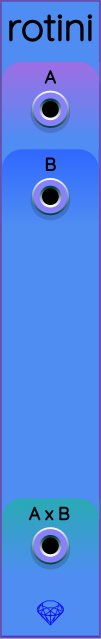
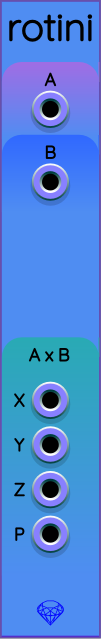
Rotini: add X, Y, Z monophonic outputs.
I realized I should make Rotini's output ports look like Frolic's and Glee's,
both to eliminate the need for external SPLIT/MERGE modules, as well as
to make it easier to recognize how to chain/combine Frolic, Glee, Rotini
into trees.

Updated screen shots, documentation.

diff --git a/util/make_sapphire_svg.py b/util/make_sapphire_svg.py
@@ -675,17 +675,23 @@ def GenerateRotiniPanel() -> int:
     pl.append(defs)
     controls = ControlLayer()
     xmid = panel.mmWidth / 2
-    NROWS = 6
+    NROWS = 7
     yRow = FencePost(22.0, 110.0, NROWS)
     dyGrad = 6.0
-    dyText = 6.5
+    dyText = 6.0
+    dxText = 6.25
+    outputPortDY =  9.0
+    outPortY = yRow.value(NROWS-3)
     with Font(SAPPHIRE_FONT_FILENAME) as font:
         pl.append(BorderRect(PANEL_WIDTH, SAPPHIRE_PANEL_COLOR, SAPPHIRE_BORDER_COLOR))
         pl.append(ModelNamePath(panel, font, name))
         pl.append(CenteredGemstone(panel))
         controls.append(Component('a_input',  xmid, yRow.value(0)))
         controls.append(Component('b_input',  xmid, yRow.value(1)))
-        controls.append(Component('c_output', xmid, yRow.value(NROWS-1)))
+        controls.append(Component('x_output', xmid, outPortY + 0*outputPortDY))
+        controls.append(Component('y_output', xmid, outPortY + 1*outputPortDY))
+        controls.append(Component('z_output', xmid, outPortY + 2*outputPortDY))
+        controls.append(Component('c_output', xmid, outPortY + 3*outputPortDY))
 
         y1 = yRow.value(0) - 9.5
         y2 = yRow.value(0) + dyGrad
@@ -697,14 +703,19 @@ def GenerateRotiniPanel() -> int:
         defs.append(Gradient(y1, y2, SAPPHIRE_AZURE_COLOR, SAPPHIRE_PANEL_COLOR, 'gradient_b'))
         pl.append(ControlGroupArt(name, 'b_art', panel, y1, y2, 'gradient_b'))
 
-        y1 = yRow.value(NROWS-1) - 9.5
-        y2 = yRow.value(NROWS-1) + dyGrad
-        defs.append(Gradient(y1, y2, SAPPHIRE_TEAL_COLOR, SAPPHIRE_PANEL_COLOR, 'gradient_c'))
-        pl.append(ControlGroupArt(name, 'c_art', panel, y1, y2, 'gradient_c'))
+        outy1 = yRow.value(NROWS-4) + 2.0
+        outy2 = yRow.value(NROWS-1) + dyGrad
+        defs.append(Gradient(outy1, outy2, SAPPHIRE_TEAL_COLOR, SAPPHIRE_PANEL_COLOR, 'gradient_c'))
+        pl.append(ControlGroupArt(name, 'c_art', panel, outy1, outy2, 'gradient_c'))
 
-        pl.append(CenteredControlTextPath(font, 'A',   xmid, yRow.value(0) - dyText))
-        pl.append(CenteredControlTextPath(font, 'B',   xmid, yRow.value(1) - dyText))
-        pl.append(CenteredControlTextPath(font, 'A x B', xmid, yRow.value(NROWS-1) - dyText))
+        pl.append(CenteredControlTextPath(font, 'A', xmid, yRow.value(0) - dyText))
+        pl.append(CenteredControlTextPath(font, 'B', xmid, yRow.value(1) - dyText))
+        pl.append(CenteredControlTextPath(font, 'A x B', xmid, outy1 + 3.5))
+
+        pl.append(CenteredControlTextPath(font, 'X', xmid - dxText, outPortY + 0*outputPortDY))
+        pl.append(CenteredControlTextPath(font, 'Y', xmid - dxText, outPortY + 1*outputPortDY))
+        pl.append(CenteredControlTextPath(font, 'Z', xmid - dxText, outPortY + 2*outputPortDY))
+        pl.append(CenteredControlTextPath(font, 'P', xmid - dxText, outPortY + 3*outputPortDY))
     pl.append(controls)
     return Save(panel, svgFileName)
 

diff --git a/src/rotini_vcv.cpp b/src/rotini_vcv.cpp
@@ -24,6 +24,9 @@ namespace Sapphire
         enum OutputId
         {
             C_OUTPUT,
+            X_OUTPUT,
+            Y_OUTPUT,
+            Z_OUTPUT,
 
             OUTPUTS_LEN
         };
@@ -79,6 +82,10 @@ namespace Sapphire
                 c.setVoltage(cy, 1);
                 c.setVoltage(cz, 2);
 
+                outputs[X_OUTPUT].setVoltage(cx);
+                outputs[Y_OUTPUT].setVoltage(cy);
+                outputs[Z_OUTPUT].setVoltage(cz);
+
                 vectorSender.sendVector(cx, cy, cz, false);
             }
         };
@@ -93,6 +100,9 @@ namespace Sapphire
                 addSapphireInput(A_INPUT, "a_input");
                 addSapphireInput(B_INPUT, "b_input");
                 addSapphireOutput(C_OUTPUT, "c_output");
+                addSapphireOutput(X_OUTPUT, "x_output");
+                addSapphireOutput(Y_OUTPUT, "y_output");
+                addSapphireOutput(Z_OUTPUT, "z_output");
                 reloadPanel();
             }
         };

diff --git a/Rotini.md b/Rotini.md
@@ -11,7 +11,29 @@ Rotini can combine the outputs of one [Frolic](Frolic.md) or [Glee](Glee.md) wit
 My hope is that with combinations of Frolic and Glee fed through Rotini, modular artists
 will have an unlimited toolbox of complex chaotic oscillators.
 
-### Example
+## Input Ports
+
+Rotini receives a pair of 3D vectors as input, named A and B.
+Each input port is designed to receive a polyphonic cable with 3 channels,
+representing the x, y, and z coordinates of a vector, such as the P output
+from [Frolic](Frolic.md) or [Glee](Glee.md). Here is an example:
 
 ![Rotini Example](images/rotini_example.png)
 
+## Output Ports
+
+Rotini calculates the vector cross product of the two vectors, producing a third vector A&times;B that is perpendicular to both A and B. The resulting cross product vector has X, Y, and Z components. These go to the X, Y, and Z ports respectively.
+
+The entire cross product as a 3D vector comes out of Rotini's P port. This is always a 3-channel polyphonic signal in the format (X, Y, Z).
+
+The vector output P can be sent to [Tin](Tin.md) for graphing by [Tricorder](Tricorder.md).
+Alternatively, Tricorder can directly serve as an extender module to the right of Rotini,
+as seen in the screen shot above.
+
+Both monophonic X, Y, Z and polyphonic P are provided to eliminate the need for external split/merge modules.
+
+## Ideas
+
+One Rotini's P output can be chained to another Rotini's A or B input. There are endless combinations of chained trees of Frolic, Glee, and Rotini, each set to different speed and chaos settings.
+Therefore, there is no limit to the number of distinct chaotic paths you can create!
+This was the real motivation to create and release Rotini: it greatly expands the number of chaotic curves we can create using a few simple modules.
